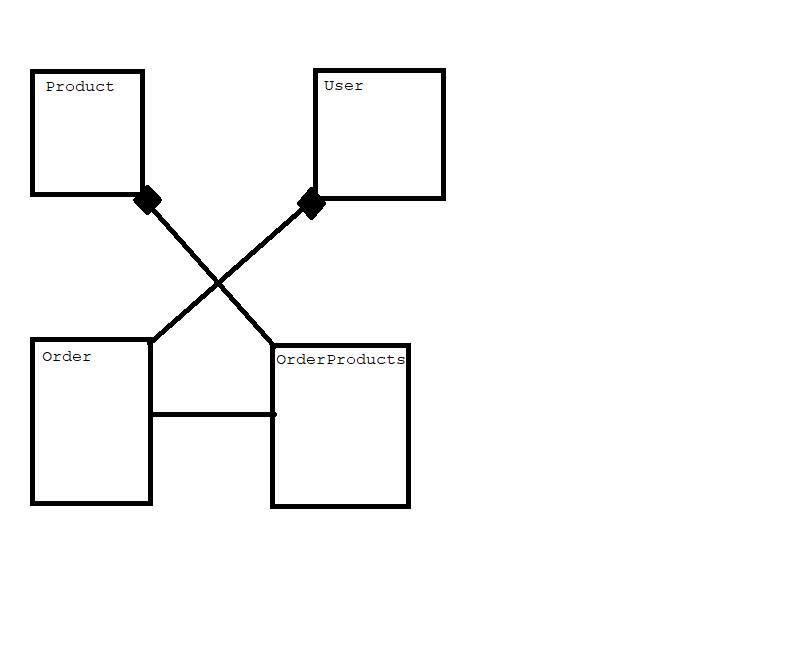
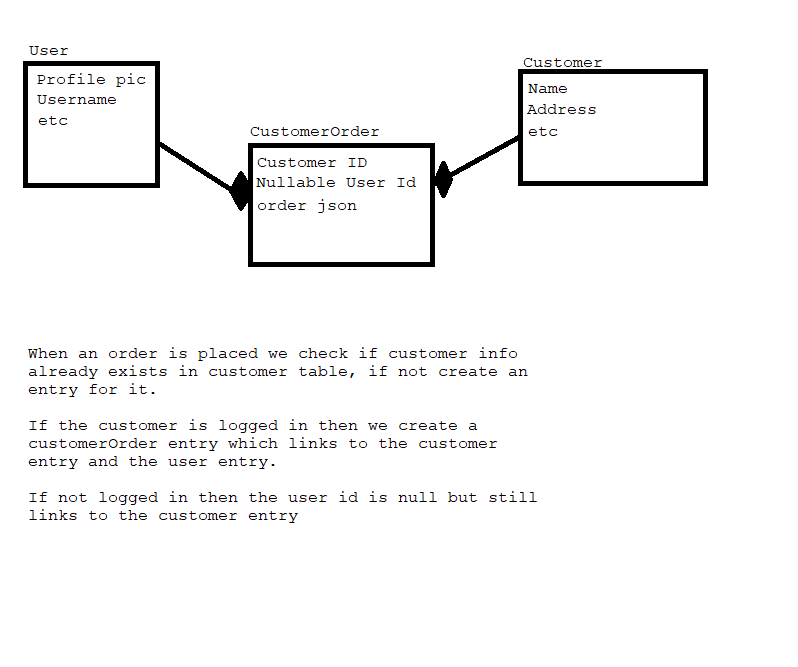
Added customer table with optional link to user table so orders can be placed without logging in

diff --git a/Store App/shop/routes.py b/Store App/shop/routes.py
@@ -1,5 +1,5 @@
 from shop import app, db
-from .models import Product, User, CustomerOrder
+from .models import Product, User, Order, OrderItem, Customer
 from flask import render_template, flash, session, redirect, url_for, request, json
 from .form_helper import FormHelper
 from .forms import CheckoutForm, LoginForm, CreateAccountForm, EditProfileForm
@@ -13,28 +13,35 @@ ALLOWED_EXTENSIONS = {'txt', 'pdf', 'png', 'jpg', 'jpeg', 'gif'}
 form_helper = FormHelper(PROFILE_UPLOAD_FOLDER, ALLOWED_EXTENSIONS)
 
 def get_orders_into_display_format(user_id):
-    customer_orders = db.session.query(CustomerOrder).join(User).filter(User.id == user_id).all()
+    # Get customers associated with user_id
+    user_customers = db.session.query(Customer).join(User).filter(User.id == user_id).all()
+    # Get orders assoicated with user customers
+    user_customer_orders = [db.session.query(Order).join(Customer).filter(Customer.id == user_customer.id).all() for user_customer in user_customers]
     orders = {}
-    for customer_order in customer_orders:
-        order_num = customer_order.id
-        orders[order_num] = {}
-        order_info = json.loads(customer_order.order)["order_items"]
-        for item in order_info:
-            product_id = item['product_id']
-            quantity = item['quantity']
-            product = Product.get_product_from_id(product_id)
-            orders[order_num][product] = quantity
-            
+    for customer_orders in user_customer_orders:
+        # Loops through all the orders for a specific customer
+        for order in customer_orders:
+            order_num = order.id
+            orders[order_num] = {}
+            items = db.session.query(OrderItem).join(Order).filter(Order.id == order_num).all()
+            for item in items:
+                # Add stuff for discount here if functionality is added
+                product = Product.get_product_from_id(item.product_id)
+                orders[order_num][product] = item.quantity
+              
     return orders
 
-    # ["order_id": {product: quantity for each item)]
-    '''
-    for order_id in order.keys():
-    <h4> Order num: {{order_id}} </h4>
-    for product, quantity in order[order_id].items():
-    <p> product x quantity
-    '''
-
+def get_order_items(basket):
+    # format wanted is [{"product_id": , "price": , "quantity": , "discount": }, {}]
+    items = []
+    for product_id, quantity in basket.items():
+        product = Product.get_product_from_id(product_id)
+        # No discount yet but if there is one add here
+        discount = None
+        if discount is None:
+            items.append({"product_id": product.id, "price": product.price, "quantity": quantity, "discount": discount})
+    return items
+                
 def get_basket():
     basket = []
     if 'Basket' in session:
@@ -109,6 +116,12 @@ def search(query):
 
     return json.dumps(points)
 
+@app.route('/orders')
+def orders():
+    orders = db.session.query(Order).all()
+    print(orders)
+    return "slut"
+
 @app.route('/productPage/<product_id>/<product_name>', methods=["GET", "POST"])
 def productPage(product_id, product_name):
     if request.method == "POST":
@@ -152,14 +165,26 @@ def basket():
 @app.route('/checkout', methods=["GET", "POST"])
 def checkout():
     form = CheckoutForm(request.form)
+    items = None
     if request.method == 'POST' and form.validate():
+        if 'Basket' in session:
+            basket = session['Basket']
+            if len(basket) > 0:
+                items = get_order_items(basket)
         if 'logged' in session:
-            basket_as_json = get_order_as_json()
             user = User.get_user_from_username(session['username'])
             if user is not None:
-                if basket_as_json is not None:
-                    CustomerOrder.add_order(basket_as_json, user.id)
+                if items is not None:
+                    customer_id = Customer.add_customer(form.card_number.data, user.id)
+                    Order.add_order(customer_id, items)
+                    #order_id = Order.add_order(user.id, items)
                     flash('Order successfull')
+                    return redirect(url_for('profile'))
+        else:
+            # If not logged in
+            if items is not None:
+                customer_id = Customer.add_customer(form.card_number.data, None)
+                Order.add_order(customer_id, items)
                                         
     basket = get_basket()
     total = get_basket_total(basket)

diff --git a/Store App/shop/models.py b/Store App/shop/models.py
@@ -3,27 +3,13 @@ from flask import json
 from werkzeug.security import generate_password_hash, check_password_hash
 
 
-class JsonEncodedDict(db.TypeDecorator):
-    impl = db.Text
-    def process_bind_param(self, value, dialect):
-        if value is None:
-            return '{}'
-        else:
-            return json.dumps(value)
-
-    def process_result_param(self, value, dialect):
-        if value is None:
-            return {}
-        else:
-            return json.loads(value)
-
 
 class User(db.Model):
     id = db.Column(db.Integer, primary_key=True)
     username = db.Column(db.String(16), index=True, unique=True)
     password_hash = db.Column(db.String(64)) 
     profile_pic = db.Column(db.String(512))
-    order = db.relationship('CustomerOrder', backref='user', lazy=True)
+    order = db.relationship('Customer', backref='user', lazy=True)
 
     def set_password(self, password):
         self.password_hash = generate_password_hash(password)
@@ -48,28 +34,73 @@ class User(db.Model):
         
     def __repr__(self):
         return '<User {0}>'.format(self.username)
-    
 
-class CustomerOrder(db.Model):
+class Customer(db.Model):
     id = db.Column(db.Integer, primary_key=True)
-    order = db.Column(JsonEncodedDict)
-    user_id = db.Column(db.Integer, db.ForeignKey('user.id'),
-        nullable=True)
-    
-    def add_order(order, user_id):
-        order = CustomerOrder(order=order, user_id=user_id)
+    card_number = db.Column(db.String(16))
+    user_id = db.Column(db.Integer, db.ForeignKey('user.id'), nullable=True)
+    order = db.relationship('Order', backref='customer', lazy=True)
+
+    def add_customer(card_number, user_id):
+        if user_id is not None:
+            customer = Customer(card_number=card_number, user_id=user_id)
+        else:
+            customer = Customer(card_number=card_number)
+
+        db.session.add(customer)
+        db.session.commit()
+
+        return customer.id
+        
+
+class OrderItem(db.Model):
+    id = db.Column(db.Integer, primary_key=True)
+    order_id = db.Column(db.Integer, db.ForeignKey('order.id'), nullable=False)
+    product_id = db.Column(db.Integer, db.ForeignKey('product.id'), nullable=False)
+    price = db.Column(db.Float)
+    quantity = db.Column(db.Integer)
+    discount = db.Column(db.Float, nullable=True)
+
+    def add_order_item(order_id, product_id, price, quantity, discount):
+        if discount is not None:
+            order_item = OrderItem(order_id=order_id, product_id=product_id, price=price, quantity=quantity, discount=discount)
+        else:
+            order_item = OrderItem(order_id=order_id, product_id=product_id, price=price, quantity=quantity)
+
+        db.session.add(order_item)
+        db.session.commit()
+
+
+class Order(db.Model):
+    id = db.Column(db.Integer, primary_key=True)
+    #user_id = db.Column(db.Integer, db.ForeignKey('user.id'), nullable=True)
+    customer_id = db.Column(db.Integer, db.ForeignKey('customer.id'), nullable=False)
+    order_item = db.relationship('OrderItem', backref='order', lazy=True)
+
+    def add_order(customer_id, items):
+        order = Order(customer_id=customer_id)
         db.session.add(order)
         db.session.commit()
-        
+        Order.add_order_items(order.id, items)
+        return order.id
+
+    def add_order_items(order_id, items):
+        # Function is within Order so can only be called within Order context
+        # form is [{"product_id": , "price": , "quantity": , "discount": }, {}]
+        for item in items: 
+            OrderItem.add_order_item(order_id, item["product_id"], item["price"], item["quantity"], item["discount"])
+
     def __repr__(self):
-        return '<CustomerOrder %r>' % self.order
-
-
+        return '<Order %r>' % self.customer_id
+        
+    
 class Product(db.Model):
     id = db.Column(db.Integer, primary_key=True)
     name = db.Column(db.String(32), index=True, unique=True)
     price = db.Column(db.Float) 
     picture = db.Column(db.String(512))
+    order_item = db.relationship('OrderItem', backref='product', lazy=True)
+
 
     @staticmethod
     def add_item(name, price, picture):
